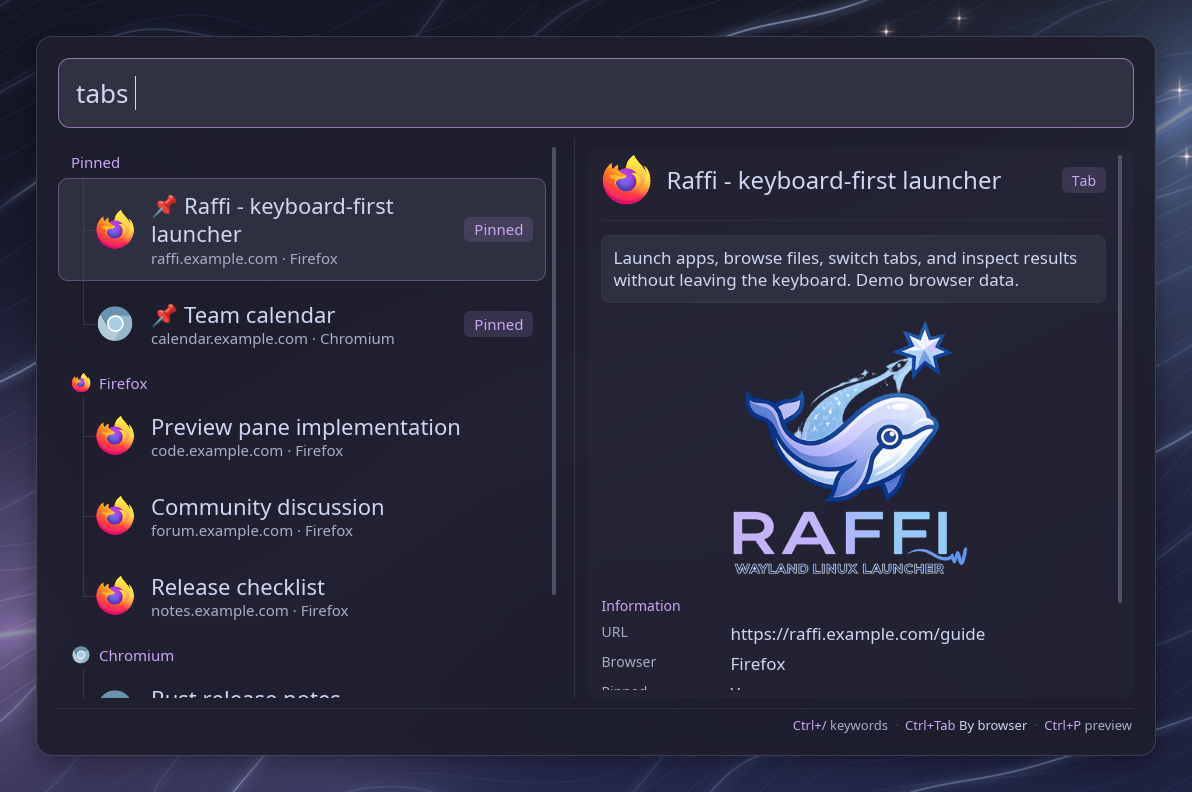
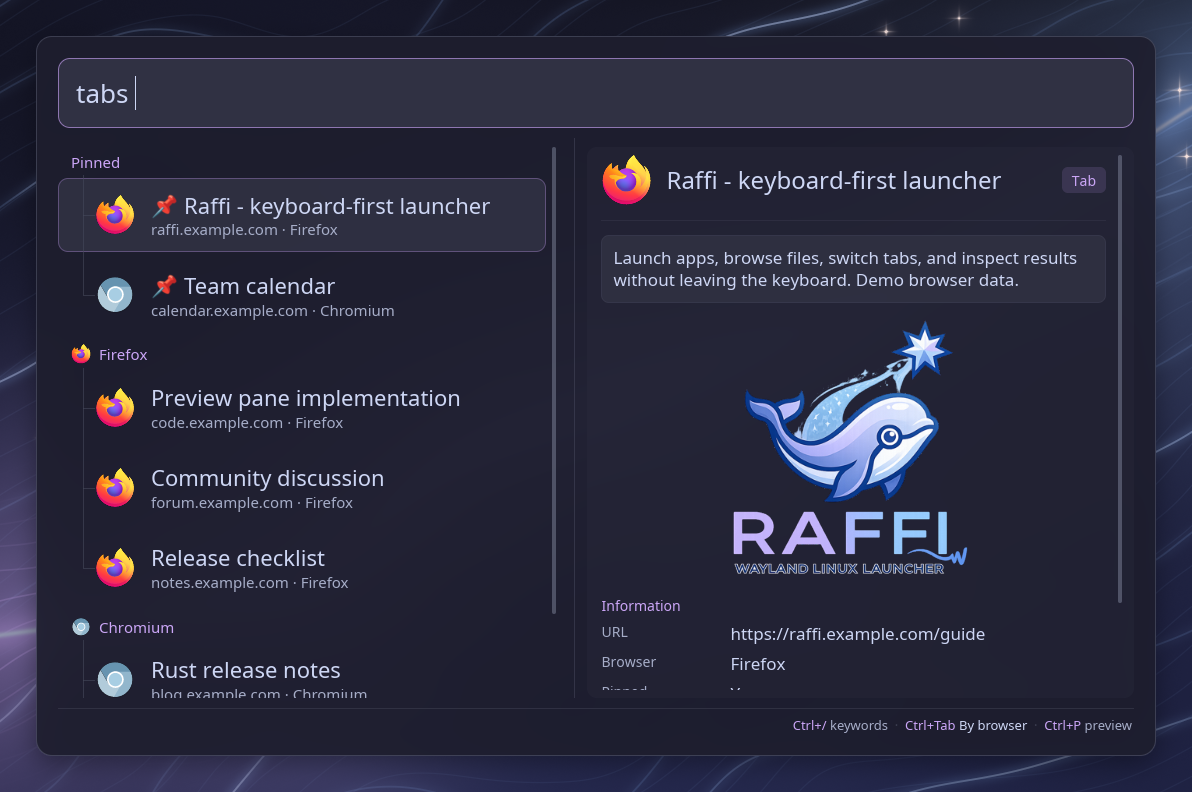
refactor: Remove redundant pinned badge from browser tabs
Removed the "Pinned" text badge from browser tabs since the pin icon
already made their status clear. Updated the documentation to reflect
the extension version requirements more clearly.

Changed region(s): [[0.0621, 0.2424, 0.3725, 0.8788], [0.3414, 0.2424, 0.4656, 0.3333], [0.3725, 0.3939, 0.4656, 0.4242]]

diff --git a/src/ui/wayland/view.rs b/src/ui/wayland/view.rs
@@ -526,8 +526,6 @@ fn scrollable_style(
 /// Opacity of rows drawn dimmed, such as muted Slack conversations.
 const DIMMED_OPACITY: f32 = 0.45;
 
-const PINNED_BADGE: &str = "Pinned";
-
 /// `title` led by a pin for pinned browser tabs.
 fn pinned_title(title: &str, pinned: bool) -> String {
     if pinned {
@@ -1256,9 +1254,6 @@ impl LauncherApp {
                             .color(t.text_muted),
                     );
                 badges.extend(item.badge.clone());
-                if item.pinned {
-                    badges.push(PINNED_BADGE.to_string());
-                }
                 badges.extend(list.addon.map(|addon| addon.badge().to_string()));
             }
             MainViewSource::Snippets {
@@ -2529,8 +2524,7 @@ impl LauncherApp {
                 } else {
                     t.accent
                 };
-                let pinned = item.pinned.then(|| PINNED_BADGE.to_string());
-                for badge in notes.iter().chain(&item.badge).chain(&pinned) {
+                for badge in notes.iter().chain(&item.badge) {
                     item_row =
                         item_row.push(tinted_badge_pill(badge.clone(), badge_color, fs.subtitle));
                 }

diff --git a/src/ui/wayland/command_list.rs b/src/ui/wayland/command_list.rs
@@ -152,7 +152,7 @@ pub(super) struct CommandItem {
     /// Section heading drawn above a run of rows sharing it while nothing
     /// is typed, such as the browser of a tab.
     pub group: Option<RowGroup>,
-    /// A pinned browser tab, marked with a pin and a "Pinned" pill.
+    /// A pinned browser tab, marked with a pin before its title.
     pub pinned: bool,
 }
 
